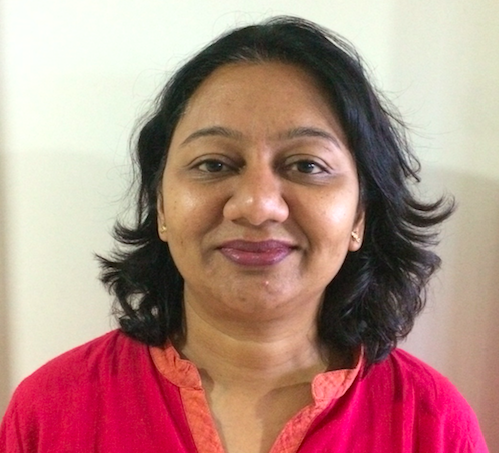
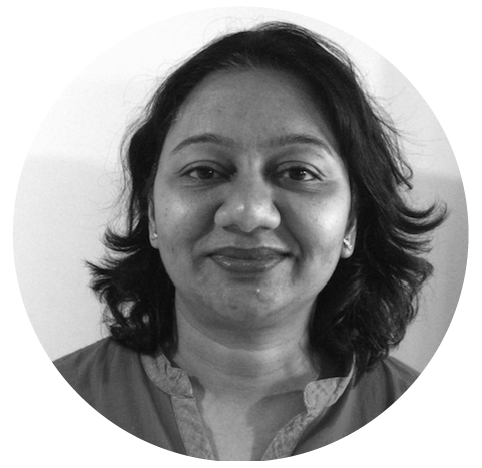
Updating the website with the edoted speaker pics and agenda

diff --git a/index.html b/index.html
@@ -211,71 +211,80 @@
       </div>
     </section>
 
-    <!--<section id="speaker-info" class="feature">-->
-    <!--<div class="row" data-bottom="transform:translateY(-10em)" data&#45;&#45;100-bottom="transform:translateY(0em)">-->
-        <!--<h3 >Get To Know The Speakers Better!</h3>-->
-    <!--</div>-->
+    <section id="speaker-info" class="feature">
+    <div class="row" data-bottom="transform:translateY(-10em)" data--100-bottom="transform:translateY(0em)">
+        <h3 >Get To Know The Speakers Better!</h3>
+    </div>
 
-    <!--<div class="timings">-->
-        <!--<span style="font-size: x-large; ">-->
-            <!--<div class="row">-->
-                <!--<div class="large-4 columns time" id="agenda-2" data-bottom="transform:rotateX(90deg) scale(0);opacity:0" data&#45;&#45;200-bottom="transform:rotateX(0) scale(1);opacity:1">-->
-                    <!--<img src="./img/speaker/edition4/Charmaine Timothy.jpg">-->
-                <!--</div>-->
-                <!--<div class="large-8 columns summary" data-anchor-target="#agenda-1" data-bottom="transform:rotateX(90deg) scale(0);opacity:0" data&#45;&#45;200-bottom="transform:rotateX(0) scale(1);opacity:1">-->
-                    <!--<span style="font-size: large; "><p>An Associate Director in one of the leading financial services firms, Charmaine could not resist adding to her full plate by starting the Wonder Women World. Her aim is to reach all the women who have inspiring stories to share, those needing inspiration, and everyone in between. Join Charmaine as she shares her journey so far and how she came to start The Wonder Women World, what it means to multi-task and juggle roles with conflicting priorities and how one simple idea can magnify into something meaningful. She'll get you thinking  about pushing boundaries, those that have been drawn by others and those you may have have drawn for yourself.-->
-                    <!--</p></span>-->
-                <!--</div>-->
-            <!--</div>-->
-            <!--<div class="row">-->
-                <!--<div class="large-4 columns time" id="agenda-2" data-bottom="transform:rotateX(90deg) scale(0);opacity:0" data&#45;&#45;200-bottom="transform:rotateX(0) scale(1);opacity:1">-->
-                    <!--<img src="./img/speaker/edition4/Suhasini.jpg">-->
-                <!--</div>-->
-                <!--<div class="large-8 columns summary" data-anchor-target="#agenda-1" data-bottom="transform:rotateX(90deg) scale(0);opacity:0" data&#45;&#45;200-bottom="transform:rotateX(0) scale(1);opacity:1">-->
-                    <!--<span style="font-size: large; "><p>Suhasini is just another woman on the web, attempting to claim the spaces that have shut women out. The internet is a scary place, and one that's especially unsafe for women. This workshop will be on navigating the online realm safely and creating a web of women with powerful voices.-->
-                    <!--</p></span>-->
-                <!--</div>-->
-            <!--</div>-->
-            <!--<div class="row">-->
-                <!--<div class="large-4 columns time" id="agenda-2" data-bottom="transform:rotateX(90deg) scale(0);opacity:0" data&#45;&#45;200-bottom="transform:rotateX(0) scale(1);opacity:1">-->
-                    <!--<img src="/img/speaker/edition4/noimage.png">-->
-                <!--</div>-->
-                <!--<div class="large-8 columns summary" data-anchor-target="#agenda-1" data-bottom="transform:rotateX(90deg) scale(0);opacity:0" data&#45;&#45;200-bottom="transform:rotateX(0) scale(1);opacity:1">-->
-                    <!--<span style="font-size: large; "><p>Swetha Shyam Kumar is a post graduate from college of fine arts, Karnataka Chitrakala Parishath, Bangalore. After pursuing her passion she has been practicing, teaching and sharing art with all age group enthusiasts since 2010. She and her team are proudly associated with south western railways since 2011, and have created many wall graffitis at various locations in Bangalore and India. She owns an art studio (Varna Vrudhi) exploring the field of art in different medias, aiming towards educating through art for the betterment of the society. Her workshop will begin with a brief introduction on Warli art and will be carried on with hands-on activities along with related discussions. By the end of the session each participant can take back the art work they created.-->
-                    <!--</p></span>-->
-                <!--</div>-->
-            <!--</div>-->
-            <!--<div class="row">-->
-                <!--<div class="large-4 columns time" id="agenda-2" data-bottom="transform:rotateX(90deg) scale(0);opacity:0" data&#45;&#45;200-bottom="transform:rotateX(0) scale(1);opacity:1">-->
-                    <!--<img src="./img/speaker/edition4/Geeta.png">-->
-                <!--</div>-->
-                <!--<div class="large-8 columns summary" data-anchor-target="#agenda-1" data-bottom="transform:rotateX(90deg) scale(0);opacity:0" data&#45;&#45;200-bottom="transform:rotateX(0) scale(1);opacity:1">-->
-                    <!--<span style="font-size: large; "><p>Geeta has been a journalist and an entrepreneur, and is now an instructional designer, learning activist, Waldorf parent, and a striving mom!  Amidst all these roles, she's currently a Learning and Development Specialist at ThoughtWorks. She helps people with their learning needs to build their skills and capabilities. Join this workshop to discover the power of blogging, cherish your passions, establish authority, share your story, provide valuable tips, and well, make some money if you wish!-->
-                    <!--</p></span>-->
-                <!--</div>-->
-            <!--</div>-->
-            <!--<div class="row">-->
-                <!--<div class="large-4 columns time" id="agenda-2" data-bottom="transform:rotateX(90deg) scale(0);opacity:0" data&#45;&#45;200-bottom="transform:rotateX(0) scale(1);opacity:1">-->
-                    <!--<img src="./img/speaker/edition4/Lubaina.jpg">-->
-                <!--</div>-->
-                <!--<div class="large-8 columns summary" data-anchor-target="#agenda-1" data-bottom="transform:rotateX(90deg) scale(0);opacity:0" data&#45;&#45;200-bottom="transform:rotateX(0) scale(1);opacity:1">-->
-                    <!--<span style="font-size: large; "><p>Lubaina is a Product Marketing Manager at ThoughtWorks. A self confessed finance novice, she's currently finding out what being financially independent means. During this year, she went from not understanding anything about taxation to filing the income taxes of her entire family. In this 90 minute workshop, you'll be equipped to make sense of and file personal income taxes. We'll provide resources and decode jargon to simplify taxes so filing them is simple and easy.-->
-                    <!--</p></span>-->
-                <!--</div>-->
-            <!--</div>-->
-        <!--</span>-->
-    <!--</div>-->
-<!--</section>-->
+    <div class="timings">
+        <span style="font-size: x-large; ">
+            <div class="row">
+                <div class="large-4 columns time" id="agenda-2" data-bottom="transform:rotateX(90deg) scale(0);opacity:0" data--200-bottom="transform:rotateX(0) scale(1);opacity:1">
+                    <img src="./img/speaker/edition4/Charmaine Timothy.jpg">
+                </div>
+                <div class="large-8 columns summary" data-anchor-target="#agenda-1" data-bottom="transform:rotateX(90deg) scale(0);opacity:0" data--200-bottom="transform:rotateX(0) scale(1);opacity:1">
+                    <span style="font-size: large; "><p>An Associate Director in one of the leading financial services firms, Charmaine could not resist adding to her full plate by starting the Wonder Women World. Her aim is to reach all the women who have inspiring stories to share, those needing inspiration, and everyone in between. Join Charmaine as she shares her journey so far and how she came to start The Wonder Women World, what it means to multi-task and juggle roles with conflicting priorities and how one simple idea can magnify into something meaningful. She'll get you thinking  about pushing boundaries, those that have been drawn by others and those you may have have drawn for yourself.
+                    </p></span>
+                </div>
+            </div>
+            <div class="row">
+                <div class="large-4 columns time" id="agenda-2" data-bottom="transform:rotateX(90deg) scale(0);opacity:0" data--200-bottom="transform:rotateX(0) scale(1);opacity:1">
+                    <img src="./img/speaker/edition4/Suhasini.jpg">
+                </div>
+                <div class="large-8 columns summary" data-anchor-target="#agenda-1" data-bottom="transform:rotateX(90deg) scale(0);opacity:0" data--200-bottom="transform:rotateX(0) scale(1);opacity:1">
+                    <span style="font-size: large; "><p>Suhasini is just another woman on the web, attempting to claim the spaces that have shut women out. The internet is a scary place, and one that's especially unsafe for women. This workshop will be on navigating the online realm safely and creating a web of women with powerful voices.
+                    </p></span>
+                </div>
+            </div>
+            <div class="row">
+                <div class="large-4 columns time" id="agenda-2" data-bottom="transform:rotateX(90deg) scale(0);opacity:0" data--200-bottom="transform:rotateX(0) scale(1);opacity:1">
+                    <img src="/img/speaker/edition4/Svetha.png">
+                </div>
+                <div class="large-8 columns summary" data-anchor-target="#agenda-1" data-bottom="transform:rotateX(90deg) scale(0);opacity:0" data--200-bottom="transform:rotateX(0) scale(1);opacity:1">
+                    <span style="font-size: large; "><p>Swetha Shyam Kumar is a post graduate from college of fine arts, Karnataka Chitrakala Parishath, Bangalore. After pursuing her passion she has been practicing, teaching and sharing art with all age group enthusiasts since 2010. She and her team are proudly associated with south western railways since 2011, and have created many wall graffitis at various locations in Bangalore and India. She owns an art studio (Varna Vrudhi) exploring the field of art in different medias, aiming towards educating through art for the betterment of the society. Her workshop will begin with a brief introduction on Warli art and will be carried on with hands-on activities along with related discussions. By the end of the session each participant can take back the art work they created.
+                    </p></span>
+                </div>
+            </div>
+            <div class="row">
+                <div class="large-4 columns time" id="agenda-2" data-bottom="transform:rotateX(90deg) scale(0);opacity:0" data--200-bottom="transform:rotateX(0) scale(1);opacity:1">
+                    <img src="./img/speaker/edition4/Geeta.png">
+                </div>
+                <div class="large-8 columns summary" data-anchor-target="#agenda-1" data-bottom="transform:rotateX(90deg) scale(0);opacity:0" data--200-bottom="transform:rotateX(0) scale(1);opacity:1">
+                    <span style="font-size: large; "><p>Geeta has been a journalist and an entrepreneur, and is now an instructional designer, learning activist, Waldorf parent, and a striving mom!  Amidst all these roles, she's currently a Learning and Development Specialist at ThoughtWorks. She helps people with their learning needs to build their skills and capabilities. Join this workshop to discover the power of blogging, cherish your passions, establish authority, share your story, provide valuable tips, and well, make some money if you wish!
+                    </p></span>
+                </div>
+            </div>
+            <div class="row">
+                <div class="large-4 columns time" id="agenda-2" data-bottom="transform:rotateX(90deg) scale(0);opacity:0" data--200-bottom="transform:rotateX(0) scale(1);opacity:1">
+                    <img src="./img/speaker/edition4/Lubaina.jpg">
+                </div>
+                <div class="large-8 columns summary" data-anchor-target="#agenda-1" data-bottom="transform:rotateX(90deg) scale(0);opacity:0" data--200-bottom="transform:rotateX(0) scale(1);opacity:1">
+                    <span style="font-size: large; "><p>Lubaina is a Product Marketing Manager at ThoughtWorks. A self confessed finance novice, she's currently finding out what being financially independent means. During this year, she went from not understanding anything about taxation to filing the income taxes of her entire family. In this 90 minute workshop, you'll be equipped to make sense of and file personal income taxes. We'll provide resources and decode jargon to simplify taxes so filing them is simple and easy.
+                    </p></span>
+                </div>
+            </div>
+          <div class="row">
+                <div class="large-4 columns time" id="agenda-2" data-bottom="transform:rotateX(90deg) scale(0);opacity:0" data--200-bottom="transform:rotateX(0) scale(1);opacity:1">
+                    <img src="./img/speaker/edition4/Sudeepa.jpg">
+                </div>
+                <div class="large-8 columns summary" data-anchor-target="#agenda-1" data-bottom="transform:rotateX(90deg) scale(0);opacity:0" data--200-bottom="transform:rotateX(0) scale(1);opacity:1">
+                    <span style="font-size: large; "><p>Sudeepa heads the Finance function for the Products and the  internal IT divisions at Thoughtworks. She is a Chartered Accountant and Company Secretary with close to 13 years of experience in IT industry. In her spare time, when she is not juggling across budget sheets and ROI analysis, she is working on her photography skills.
+                    </p></span>
+                </div>
+            </div>
+        </span>
+    </div>
+</section>
 
 <section id="participate" class="feature">
     <div class="row" data-bottom="transform:translateY(-10em)" data--100-bottom="transform:translateY(0em)">
         <h2>Participate</h2>
     </div>
-        
+
         <div style="margin: 0" class="large-12 columns social form-container" data-anchor-target="#_participant">
             <iframe src="https://goo.gl/forms/I8GKf9jEqTM2pmoi1" width=100% height="1000" frameborder="0" marginheight="0" marginwidth="0">Loading...</iframe>
         </div>
-        
+
 </section>
 
 
@@ -327,7 +336,7 @@
     <div class="row">
         <div class="large-12 columns">
             <ul class="grid">
-                
+
                 <li>
                     <a href="./" data-bottom="transform:rotateZ(180deg) rotateY(90deg) scale(0);opacity:0;transform-origin:50% 0" data--150-bottom="transform:rotateZ(0deg) rotateY(0) scale(1);opacity:1" class="active">
                         <div class="month">Sep</div>
@@ -335,7 +344,7 @@
                         <div class="year">2018</div>
                     </a>
                 </li>
-                
+
                 <li>
                     <a href="./apr2017.html" data-bottom="transform:rotateZ(180deg) rotateY(90deg) scale(0);opacity:0;transform-origin:50% 0" data--150-bottom="transform:rotateZ(0deg) rotateY(0) scale(1);opacity:1" class="">
                         <div class="month">Apr</div>
@@ -343,7 +352,7 @@
                         <div class="year">2017</div>
                     </a>
                 </li>
-                
+
                 <li>
                     <a href="./sep2016.html" data-bottom="transform:rotateZ(180deg) rotateY(90deg) scale(0);opacity:0;transform-origin:50% 0" data--150-bottom="transform:rotateZ(0deg) rotateY(0) scale(1);opacity:1" class="">
                         <div class="month">Sep</div>
@@ -351,7 +360,7 @@
                         <div class="year">2016</div>
                     </a>
                 </li>
-                
+
                 <li>
                     <a href="./apr2016.html" data-bottom="transform:rotateZ(180deg) rotateY(90deg) scale(0);opacity:0;transform-origin:50% 0" data--150-bottom="transform:rotateZ(0deg) rotateY(0) scale(1);opacity:1" class="">
                         <div class="month">Apr</div>
@@ -359,7 +368,7 @@
                         <div class="year">2016</div>
                     </a>
                 </li>
-                
+
             </ul>
         </div>
     </div>
@@ -381,16 +390,16 @@
                 </ul>
                 <ul class="right">
                   <li>
-                    
+
                         <a href="#participate" rel="nofollow"
                            onclick="ga('send', 'event', 'participate', 'participate')">
                           Participate
                         </a>
-                    
+
                   </li>
                   <li><a href="#about">About</a></li>
                   <li>
-                    
+
                   </li>
                     <li><a href="#location">Location</a></li>
                     <li><a href="#archive">All Editions</a></li>
